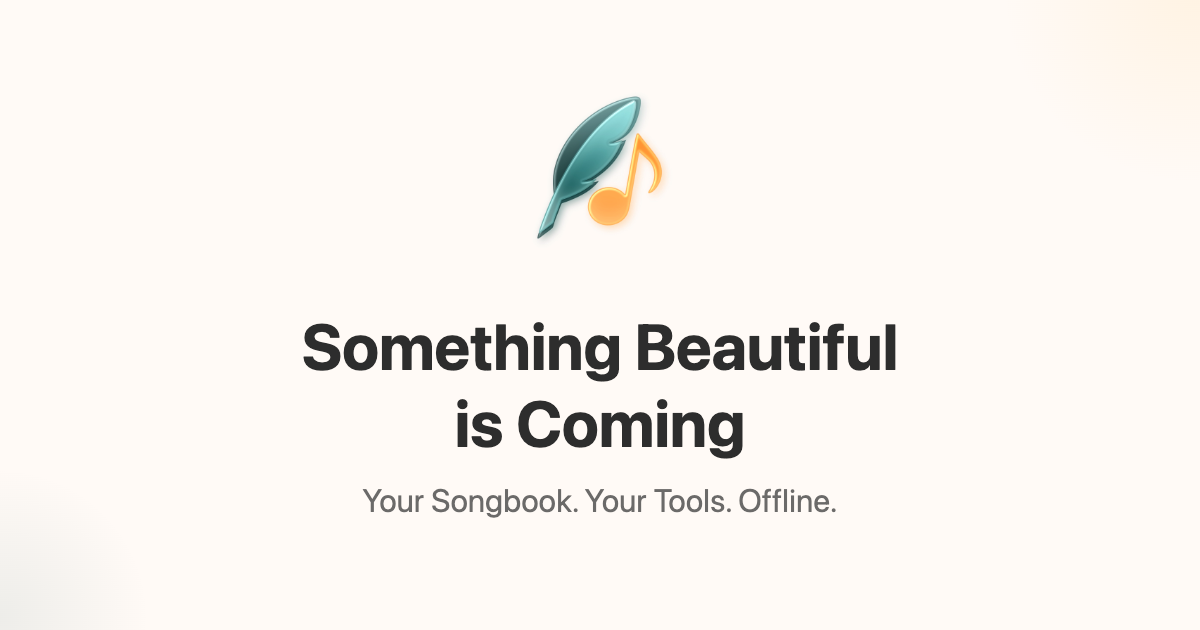
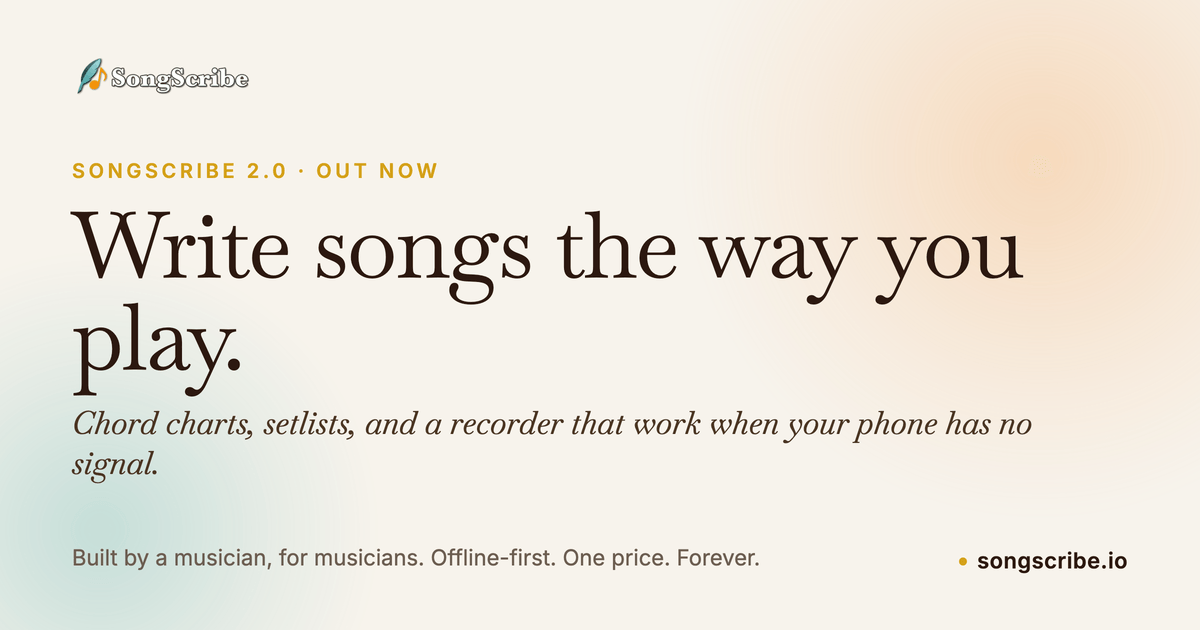
chore(m8): refresh OG image for v2 hero
Redesign the generator template for v2:
- Cream parchment background (#F7F3EC) with coral + teal watercolor washes
- Amber eyebrow "SONGSCRIBE 2.0 · OUT NOW"
- Baskervville 92px headline: "Write songs the way you play."
- Italic 32px tagline: "Chord charts, setlists, and a recorder
  that work when your phone has no signal."
- Inter subtitle + amber-dot songscribe.io URL at the bottom

Rendered at 2x via headless Chrome, downsampled with lanczos3 to
1200x630. Final PNG is 99.8 KB (target: ~150 KB).

Document the render recipe in the generator HTML with a note about
the --window-size 87px chrome-overhead gotcha that would otherwise
clip the footer row.

diff --git a/public/assets/images/og-image-generator.html b/public/assets/images/og-image-generator.html
@@ -1,89 +1,167 @@
 <!DOCTYPE html>
+<!--
+  Render recipe (from repo root, with `npm run dev` running on :5174):
+    "/Applications/Google Chrome.app/Contents/MacOS/Google Chrome" \
+      --headless=new --hide-scrollbars --disable-gpu \
+      --force-device-scale-factor=2 --window-size=1200,717 \
+      --virtual-time-budget=10000 \
+      --screenshot=/tmp/og-raw.png \
+      "http://localhost:5174/assets/images/og-image-generator.html"
+    node -e "require('sharp')('/tmp/og-raw.png').extract({left:0,top:0,width:2400,height:1260}).resize(1200,630,{kernel:'lanczos3'}).png({compressionLevel:9,effort:10}).toFile('public/assets/images/og-image.png')"
+
+  Note: --window-size sets the whole Chrome window, NOT the viewport. On macOS the
+  chrome-UI overhead is ~87px, so 717 = 630 viewport + 87 chrome. Re-measure with
+  the debug HTML if you switch hosts / Chrome versions.
+-->
 <html lang="en">
 <head>
-    <meta charset="UTF-8">
-    <meta name="viewport" content="width=device-width, initial-scale=1.0">
-    <title>OG Image Generator - SongScribe</title>
-    <style>
-        * {
-            margin: 0;
-            padding: 0;
-            box-sizing: border-box;
-        }
-        
-        body {
-            width: 1200px;
-            height: 630px;
-            background: linear-gradient(135deg, #FFFBF7 0%, #FFFBF7 100%);
-            display: flex;
-            flex-direction: column;
-            align-items: center;
-            justify-content: center;
-            font-family: 'Inter', system-ui, -apple-system, sans-serif;
-            position: relative;
-            overflow: hidden;
-        }
-        
-        .logo-container {
-            margin-bottom: 40px;
-        }
-        
-        .logo-container img {
-            max-height: 180px;
-            max-width: 600px;
-            width: auto;
-            height: auto;
-            object-fit: contain;
-        }
-        
-        .headline {
-            font-size: 64px;
-            font-weight: 700;
-            color: #333333;
-            text-align: center;
-            margin-bottom: 20px;
-            line-height: 1.2;
-        }
-        
-        .tagline {
-            font-size: 32px;
-            font-weight: 400;
-            color: rgba(51, 51, 51, 0.7);
-            text-align: center;
-        }
-        
-        .accent {
-            position: absolute;
-            width: 400px;
-            height: 400px;
-            border-radius: 50%;
-            background: radial-gradient(circle, rgba(251, 191, 36, 0.1) 0%, transparent 70%);
-            top: -200px;
-            right: -200px;
-        }
-        
-        .accent-2 {
-            position: absolute;
-            width: 300px;
-            height: 300px;
-            border-radius: 50%;
-            background: radial-gradient(circle, rgba(95, 132, 132, 0.1) 0%, transparent 70%);
-            bottom: -150px;
-            left: -150px;
-        }
-    </style>
+  <meta charset="UTF-8">
+  <title>OG Image Generator — SongScribe 2.0</title>
+  <link rel="preconnect" href="https://fonts.googleapis.com">
+  <link rel="preconnect" href="https://fonts.gstatic.com" crossorigin>
+  <link href="https://fonts.googleapis.com/css2?family=Baskervville:ital@0;1&family=Inter:wght@400;600&display=swap" rel="stylesheet">
+  <style>
+    * { margin: 0; padding: 0; box-sizing: border-box; }
+
+    :root {
+      --parchment: #F0EBE6;
+      --cream:     #F7F3EC;
+      --ink:       #2C1810;
+      --ink-soft:  #4A3420;
+      --warm:      #6B5E50;
+      --amber:     #D4A017;
+      --coral:     #F5A962;
+      --teal:      #2D9E9E;
+    }
+
+    html, body { width: 1200px; height: 630px; }
+
+    body {
+      background: var(--cream);
+      font-family: 'Inter', system-ui, sans-serif;
+      color: var(--ink);
+      position: relative;
+      overflow: hidden;
+      display: flex;
+      flex-direction: column;
+      justify-content: space-between;
+      padding: 56px 72px;
+    }
+
+    /* Watercolor washes (echoing hero plate vibe, subtle at OG scale) */
+    body::before {
+      content: '';
+      position: absolute;
+      top: -200px; right: -200px;
+      width: 720px; height: 720px;
+      border-radius: 50%;
+      background: radial-gradient(circle, rgba(245, 169, 98, 0.35) 0%, rgba(245, 169, 98, 0.10) 45%, transparent 70%);
+      filter: blur(8px);
+      pointer-events: none;
+    }
+
+    body::after {
+      content: '';
+      position: absolute;
+      bottom: -180px; left: -180px;
+      width: 560px; height: 560px;
+      border-radius: 50%;
+      background: radial-gradient(circle, rgba(45, 158, 158, 0.25) 0%, rgba(45, 158, 158, 0.08) 45%, transparent 70%);
+      filter: blur(8px);
+      pointer-events: none;
+    }
+
+    /* Top row: brand */
+    .brand {
+      display: flex;
+      align-items: center;
+      gap: 14px;
+      position: relative;
+      z-index: 1;
+    }
+    .brand img { height: 44px; width: auto; display: block; }
+
+    /* Center: headline + tagline */
+    .content {
+      position: relative;
+      z-index: 1;
+      max-width: 1040px;
+    }
+    .eyebrow {
+      font-family: 'Inter', system-ui, sans-serif;
+      font-size: 20px;
+      font-weight: 600;
+      letter-spacing: 0.18em;
+      text-transform: uppercase;
+      color: var(--amber);
+      margin-bottom: 16px;
+    }
+    .headline {
+      font-family: 'Baskervville', Georgia, serif;
+      font-size: 92px;
+      font-weight: 400;
+      line-height: 1.0;
+      letter-spacing: -0.02em;
+      color: var(--ink);
+      margin-bottom: 20px;
+    }
+    .tagline {
+      font-family: 'Baskervville', Georgia, serif;
+      font-style: italic;
+      font-size: 32px;
+      font-weight: 400;
+      line-height: 1.25;
+      color: var(--ink-soft);
+    }
+
+    /* Bottom: subtitle + url */
+    .footer-row {
+      display: flex;
+      justify-content: space-between;
+      align-items: flex-end;
+      position: relative;
+      z-index: 1;
+    }
+    .subtitle {
+      font-family: 'Inter', system-ui, sans-serif;
+      font-size: 22px;
+      font-weight: 400;
+      color: var(--warm);
+      max-width: 720px;
+      line-height: 1.5;
+    }
+    .url {
+      font-family: 'Inter', system-ui, sans-serif;
+      font-size: 22px;
+      font-weight: 600;
+      color: var(--ink);
+      letter-spacing: 0.02em;
+    }
+    .url::before {
+      content: '';
+      display: inline-block;
+      width: 8px; height: 8px;
+      border-radius: 50%;
+      background: var(--amber);
+      margin-right: 10px;
+      transform: translateY(-3px);
+    }
+  </style>
 </head>
 <body>
-    <div class="accent"></div>
-    <div class="accent-2"></div>
-    
-    <div class="logo-container">
-        <img src="logo-full.webp" alt="SongScribe Logo" onerror="this.style.display='none'; document.querySelector('.logo-fallback').style.display='block';">
-        <div class="logo-fallback" style="display: none; font-size: 80px; font-weight: 700; color: #FBBF24;">SongScribe</div>
-    </div>
-    
-    <h1 class="headline">Something Beautiful<br>is Coming</h1>
-    <p class="tagline">Your Songbook. Your Tools. Offline.</p>
+  <div class="brand">
+    <img src="SongScribe-header-logo.svg" alt="SongScribe">
+  </div>
+
+  <div class="content">
+    <div class="eyebrow">SongScribe 2.0 &middot; Out Now</div>
+    <h1 class="headline">Write songs the way you play.</h1>
+    <p class="tagline">Chord charts, setlists, and a recorder that work when your phone has no signal.</p>
+  </div>
+
+  <div class="footer-row">
+    <p class="subtitle">Built by a musician, for musicians. Offline-first. One price. Forever.</p>
+    <span class="url">songscribe.io</span>
+  </div>
 </body>
 </html>
-
